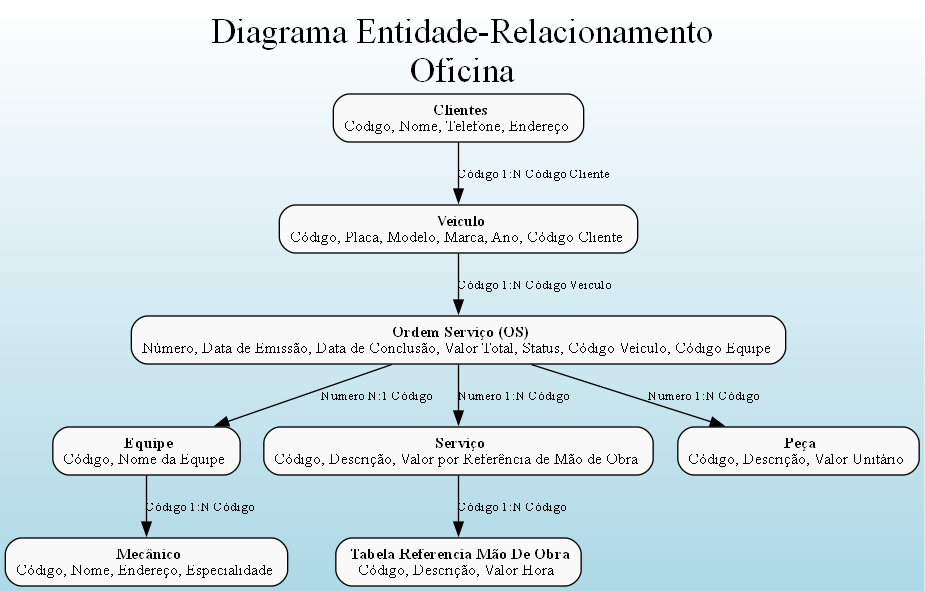
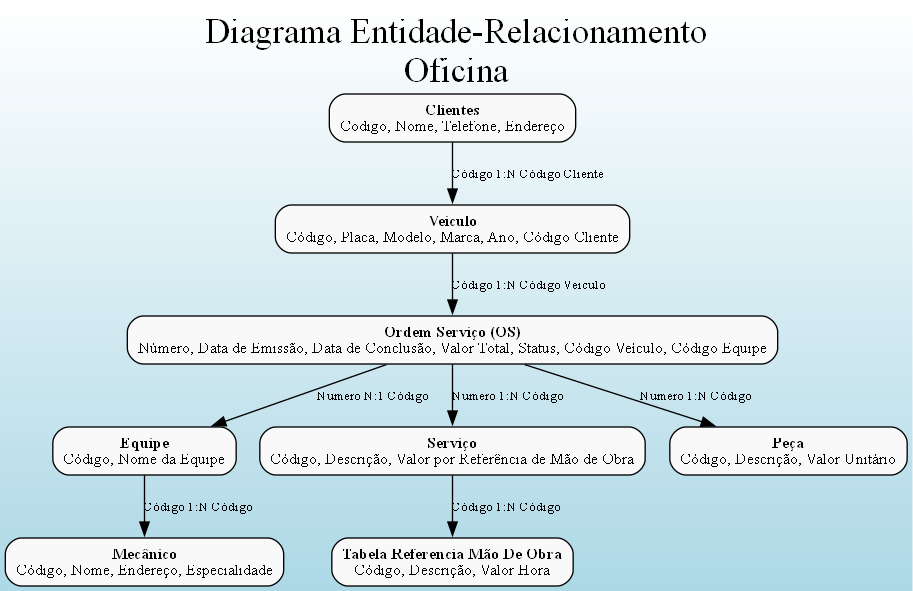
Readmi

diff --git a/app.py b/app.py
@@ -40,11 +40,12 @@ def create_dynamic_diagram(tables, relationships, db_name):
 
     # Adicionar tabelas ao diagrama
     for table, columns in tables.items():
-        # Nome da tabela em negrito e colunas na mesma linha
-        column_text = ", ".join(columns)
+        # Nome da tabela em negrito e colunas na mesma linha, mas separadas
+        column_text = ", ".join(columns)  # Colunas na mesma linha
+        formatted_text = f"<<b>{table}</b><br/><font point-size='12'>{column_text}</font>>"
         diagram.node(
             table,
-            f"< <b>{table}</b><br/>\n{column_text} >",
+            formatted_text,  # Conteúdo do nó com separação de linhas
             shape="box",
             style="filled,rounded",
             fillcolor="#f9f9f9",
@@ -56,6 +57,30 @@ def create_dynamic_diagram(tables, relationships, db_name):
         diagram.edge(relationship["from"], relationship["to"], label=relationship.get("label", ""), fontsize="10")
     
     return diagram
+
+# Função para gerar o SQL
+def generate_sql(tables, relationships):
+    sql_commands = []
+
+    # Criar tabelas
+    for table, columns in tables.items():
+        column_definitions = []
+        for column in columns:
+            column_definitions.append(f"{column} TEXT")  # Tipo de dado padrão: TEXT
+
+        # Verificar relacionamentos
+        table_relationships = [
+            r for r in relationships if r["from"] == table
+        ]
+        for rel in table_relationships:
+            column_definitions.append(
+                f"FOREIGN KEY ({rel['from']}) REFERENCES {rel['to']}({rel['from']})"
+            )
+
+        sql = f"CREATE TABLE {table} (\n  " + ",\n  ".join(column_definitions) + "\n);"
+        sql_commands.append(sql)
+
+    return "\n\n".join(sql_commands)
 
 # Inicializar variáveis de sessão para tabelas e relacionamentos
 if "current_db" not in st.session_state:
@@ -142,17 +167,25 @@ elif action == "Editar Banco de Dados":
             )
             st.success(f"Alterações salvas no banco de dados '{st.session_state['current_db']}'.")
 
-# Visualizar diagramas
+# Visualizar diagramas e SQL
 elif action == "Visualizar Diagramas":
-    st.title("Visualizar Diagramas")
+    st.title("Visualizar Diagramas e SQL")
     db_list = list_databases()
     if db_list:
         selected_db = st.selectbox("Selecione um Banco de Dados", db_list)
-        if st.button("Gerar Diagrama"):
+        if st.button("Gerar Diagrama e SQL"):
             tables, relationships = load_database(selected_db)
+            # Gerar o diagrama
             diagram = create_dynamic_diagram(tables, relationships, selected_db)
             diagram_path = f"./{selected_db}_diagram"
             diagram.render(diagram_path, format="png")
             st.image(f"{diagram_path}.png", caption=f"Diagrama do Banco de Dados: {selected_db}", use_container_width=True)
-            with open(f"{diagram_path}.png", "rb") as img:
-                st.download_button("Baixar Imagem", data=img, file_name=f"{selected_db}_diagram.png", mime="image/png")
+
+            # Gerar SQL
+            sql_script = generate_sql(tables, relationships)
+            st.subheader("Comando SQL Gerado")
+            st.code(sql_script, language="sql")
+            with open(f"{selected_db}_script.sql", "w") as f:
+                f.write(sql_script)
+            with open(f"{selected_db}_script.sql", "rb") as sql_file:
+                st.download_button("Baixar Script SQL", data=sql_file, file_name=f"{selected_db}_script.sql", mime="text/sql")

diff --git a/README.md b/README.md
@@ -1,2 +1,93 @@
-# diagrama_Graphviz
- Arquivo pra criar um diagrama de relacionamento 1:N pro esquema de tabelas do Banco de Dados
+# Gerador Dinâmico de Banco de Dados com Diagramas e SQL
+
+## Descrição
+
+Este programa permite criar, editar e visualizar bancos de dados de forma dinâmica. Ele gera diagramas de Entidade-Relacionamento (ER) e scripts SQL para criação do banco de dados. Desenvolvido em Python utilizando o Streamlit e Graphviz, o programa oferece uma interface interativa para gerenciamento de tabelas e seus relacionamentos.
+
+---
+
+## Funcionalidades
+
+- **Criação de Bancos de Dados**: Permite criar novos bancos de dados com nome personalizado.
+- **Edição de Bancos de Dados**: Adicione ou edite tabelas e seus respectivos relacionamentos.
+- **Visualização de Diagramas**: Gera diagramas ER representando graficamente o banco de dados.
+- **Geração de SQL**: Gera comandos SQL completos para a criação do banco de dados.
+- **Download de Resultados**:
+  - Baixe os diagramas gerados como imagens (PNG).
+  - Baixe o script SQL em um arquivo (.sql).
+
+---
+
+## Tecnologias Utilizadas
+
+- **Python**: Linguagem principal.
+- **Streamlit**: Para a criação da interface web interativa.
+- **Graphviz**: Para geração dos diagramas ER.
+- **JSON**: Para persistência de dados entre sessões.
+
+---
+
+## Requisitos
+
+Antes de executar o programa, certifique-se de ter as seguintes dependências instaladas:
+
+1. **Python**: Versão 3.8 ou superior.
+2. **Bibliotecas Python**:
+   - `streamlit`
+   - `graphviz`
+3. **Graphviz**:
+   - Instale o Graphviz no sistema para geração de diagramas.
+
+---
+
+### Instalação das Dependências
+
+```bash
+pip install streamlit graphviz
+
+### Instalação do Graphviz
+
+- **Windows**:  
+  Baixe o instalador [Graphviz](https://graphviz.org/download/) e siga as instruções.
+
+- **Linux**:  
+  ```bash
+  sudo apt install graphviz
+
+- **macOS**:  
+  ```bash
+  brew install graphviz
+
+# Como Usar
+
+## Clone o repositório:
+```bash
+git clone <URL do repositório>
+cd <nome do diretório clonado>
+
+## Execute o programa:
+```bash
+streamlit run app.py
+
+## Acesse no navegador:
+Normalmente, o Streamlit será iniciado em [http://localhost:8501](http://localhost:8501).
+
+## Utilize a interface:
+- **Criar Novo Banco de Dados:** Insira o nome do banco e adicione tabelas com colunas e relacionamentos.
+- **Editar Banco de Dados:** Carregue um banco existente para modificações.
+- **Visualizar Diagramas e SQL:** Gera e exibe o diagrama ER e o script SQL correspondente.
+
+## Exporte os resultados:
+- **Baixar Diagrama:** Clique no botão para salvar o diagrama como PNG.
+- **Baixar Script SQL:** Salve o comando SQL gerado como um arquivo `.sql`.
+
+## Estrutura do Código
+- **app.py:** Contém toda a lógica do programa, incluindo a interface Streamlit, geração de diagramas, e criação de SQL.
+- **bancos_dados/:** Diretório onde os bancos de dados são salvos em arquivos JSON.
+
+## Funções Principais
+- **save_database:** Salva as tabelas e relacionamentos no formato JSON.
+- **load_database:** Carrega um banco de dados existente.
+- **generate_sql:** Gera o script SQL para criar as tabelas e relacionamentos.
+- **create_dynamic_diagram:** Gera o diagrama ER com Graphviz.
+
